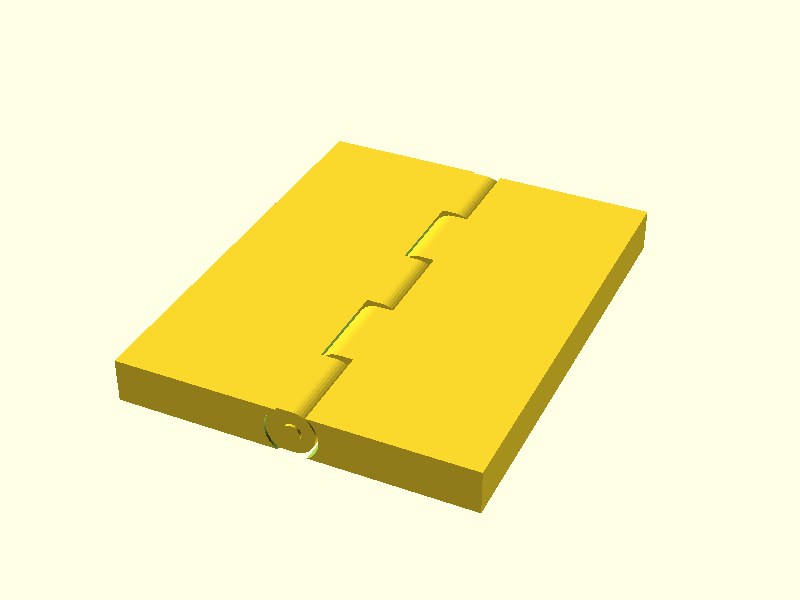
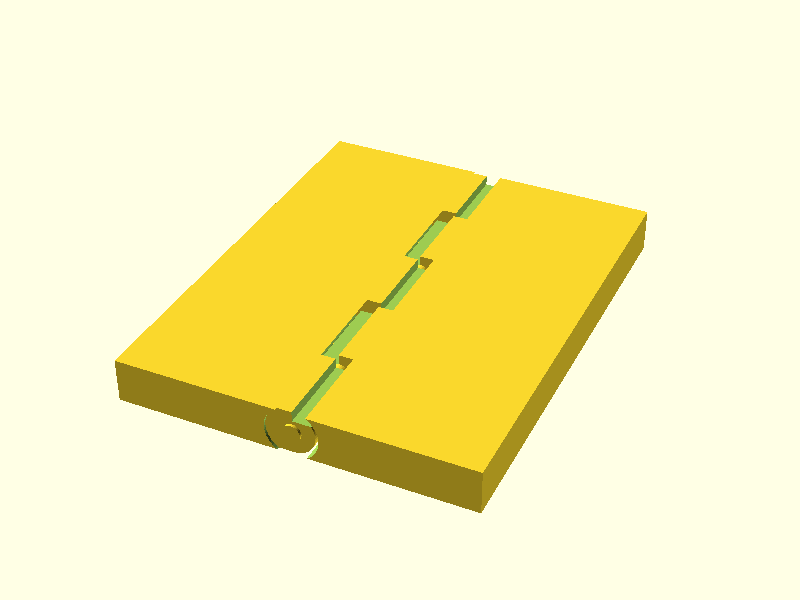
feat: add back_relief and rod-pin end caps
- flush_knuckle_hinge: back_relief trims a flat off the top face of
  each knuckle where it protrudes into the opposing scallop; the CAD
  swing was already clear but the printed micro hinge bound before
  90 degrees (test print), so relieve the contact zone
- knuckle/piano/crate/flush: parts="caps" emits a pair of gluable end
  plugs (knuckle_od flange + pin_d stub) that retain a cut-to-length
  metal rod pin; new cap_thickness and cap_plug_depth params
- demos: set pin_d explicitly in every pinned example, commented with
  the auto value, for people sizing metal rod pins

Changed region(s): [[0.3438, 0.36, 0.5625, 0.72], [0.5625, 0.3, 0.625, 0.36]]

diff --git a/README.md b/README.md
@@ -45,9 +45,11 @@ bored-both-sides hinge with an optional separately printed pin.
 | `pin_d` | 0 | Pin diameter; 0 = auto (`knuckle_od / 2`) |
 | `pin_clearance` | 0.25 | Radial clearance between pin and knuckle bore |
 | `knuckle_gap` | 0.3 | Axial clearance between adjacent knuckles, and leaf-to-barrel gap |
-| `integral_pin` | true | Pin fused to leaf 1's knuckles (print-in-place, no assembly) |
+| `integral_pin` | true | Pin fused to leaf 1's knuckles (print-in-place, no assembly); `parts="both"` only, lone leaves are always bored |
 | `print_pin` | false | With `integral_pin=false`: emit a loose pin beside the hinge |
-| `parts` | "both" | `"both"` / `"leaf1"` / `"leaf2"`: emit one leaf only, for fusing each leaf onto a different mating part |
+| `cap_thickness` | 1.5 | `parts="caps"`: end cap flange thickness |
+| `cap_plug_depth` | 0 | `parts="caps"`: cap stub depth into the bore; 0 = auto (half an end knuckle) |
+| `parts` | "both" | `"both"` / `"leaf1"` / `"leaf2"` / `"pin"` / `"caps"`: emit one component only; a lone leaf is always bored for a loose pin, printed separately via `"pin"`, and `"caps"` emits a pair of gluable end caps that retain a cut-to-length metal rod pin |
 | `fn` | 48 | `$fn`-style circle resolution for knuckles and pin |
 
 ---
@@ -72,9 +74,11 @@ target `knuckle_pitch`, for long lids needing even load distribution.
 | `pin_d` | 0 | Pin diameter; 0 = auto |
 | `pin_clearance` | 0.25 | Radial clearance between pin and bore |
 | `knuckle_gap` | 0.3 | Axial knuckle clearance and leaf-to-barrel gap |
-| `integral_pin` | true | Print-in-place pin fused to leaf 1 |
+| `integral_pin` | true | Print-in-place pin fused to leaf 1; `parts="both"` only, lone leaves are always bored |
 | `print_pin` | false | With `integral_pin=false`: emit a loose pin beside the hinge |
-| `parts` | "both" | `"both"` / `"leaf1"` / `"leaf2"`: emit one leaf only, for fusing each leaf onto a different mating part |
+| `cap_thickness` | 1.5 | `parts="caps"`: end cap flange thickness |
+| `cap_plug_depth` | 0 | `parts="caps"`: cap stub depth into the bore; 0 = auto (half an end knuckle) |
+| `parts` | "both" | `"both"` / `"leaf1"` / `"leaf2"` / `"pin"` / `"caps"`: emit one component only; a lone leaf is always bored for a loose pin, printed separately via `"pin"`, and `"caps"` emits a pair of gluable end caps that retain a cut-to-length metal rod pin |
 | `fn` | 32 | Circle resolution |
 
 ---
@@ -214,8 +218,10 @@ counterbored screw holes sit on the outer strip of each strap, clear of the lug 
 | `screw_cb_d` | 6.2 | Cap-head counterbore diameter |
 | `screw_cb_depth` | 1.5 | Counterbore depth |
 | `screws_per_leaf` | 2 | Screw holes per strap, on the outer strip; 0 = none (e.g. when fusing straps onto printed parts) |
-| `print_pin` | true | Emit a loose printed pin beside the hinge |
-| `parts` | "both" | `"both"` / `"leaf1"` / `"leaf2"`: emit one leaf only, for fusing each leaf onto a different mating part |
+| `print_pin` | true | `parts="both"` only: emit a loose printed pin beside the hinge |
+| `cap_thickness` | 1.5 | `parts="caps"`: end cap flange thickness |
+| `cap_plug_depth` | 0 | `parts="caps"`: cap stub depth into the bore; 0 = auto (half an end knuckle) |
+| `parts` | "both" | `"both"` / `"leaf1"` / `"leaf2"` / `"pin"` / `"caps"`: emit one component only; a lone leaf is always bored for a loose pin, printed separately via `"pin"`, and `"caps"` emits a pair of gluable end caps that retain a cut-to-length metal rod pin |
 | `fn` | 48 | Circle resolution |
 
 ---
@@ -250,6 +256,10 @@ Print notes (0.4mm nozzle, 0.16mm layers, 3 walls, 3% infill reference profile):
   perimeter-dominated; 3 walls carry it.
 - First-layer squish narrows the scallop gap at bed level — if leaves fuse along the bottom
   of the seam, raise `scallop_clearance` or reduce first-layer flow.
+- If the printed hinge binds before 90° (test-print confirmed at this scale), the knuckles
+  are dragging on the opposing scallop's lip. Set `back_relief` (micro demo uses 0.45, the
+  bore-breakout limit at this scale) to trim a flat off the top face of each knuckle on the
+  side that protrudes into the opposing leaf; the swing then clears through the full range.
 
 | Parameter | Default | Meaning |
 |---|---|---|
@@ -261,9 +271,12 @@ Print notes (0.4mm nozzle, 0.16mm layers, 3 walls, 3% infill reference profile):
 | `pin_clearance` | 0.25 | Radial clearance between pin and knuckle bore |
 | `knuckle_gap` | 0.3 | Axial clearance between adjacent knuckles |
 | `scallop_clearance` | 0.3 | Radial clearance between a knuckle and the opposing leaf's scallop |
-| `integral_pin` | true | Pin fused to leaf 1's knuckles (print-in-place, no assembly) |
+| `back_relief` | 0 | Flat trimmed off the top face of each knuckle on the side protruding into the opposing scallop; frees the swing when the print binds. Keep below `knuckle_od/2 - (pin_d/2 + pin_clearance)` |
+| `integral_pin` | true | Pin fused to leaf 1's knuckles (print-in-place, no assembly); `parts="both"` only, lone leaves are always bored |
 | `print_pin` | false | With `integral_pin=false`: emit a loose pin beside the hinge |
-| `parts` | "both" | `"both"` / `"leaf1"` / `"leaf2"`: emit one leaf only, for fusing each leaf onto a different mating part |
+| `cap_thickness` | 1.5 | `parts="caps"`: end cap flange thickness |
+| `cap_plug_depth` | 0 | `parts="caps"`: cap stub depth into the bore; 0 = auto (half an end knuckle) |
+| `parts` | "both" | `"both"` / `"leaf1"` / `"leaf2"` / `"pin"` / `"caps"`: emit one component only; a lone leaf is always bored for a loose pin, printed separately via `"pin"`, and `"caps"` emits a pair of gluable end caps that retain a cut-to-length metal rod pin |
 | `fn` | 48 | `$fn`-style circle resolution for knuckles, scallop, and pin |
 
 ---